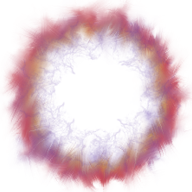
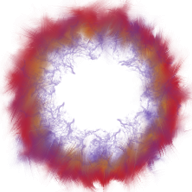
shield increases opacity when charging

diff --git a/Levels/level00.js b/Levels/level00.js
@@ -11,11 +11,11 @@ levels[0].background =
 [
     new Box({x:_VCENTER.x, y:res.h, w:res.w, h:128, o:{x:-0.5,y:-1}}, "maroon"),
     new SwordProp({x:_VCENTER.x, y:_VCENTER.y+208, w:16, h:128, o:{x:-0.5,y:-1}}),
-    new Img({x:_VCENTER.x, y:_VCENTER.y+284, w:64, h:128, o:{x:-0.5,y:-1}}, _PEDESTALIMG, _BLOCKALL),
-    new Img({x:_VCENTER.x, y:res.h-256, w:64, h:128, o:{x:-0.5,y:0}}, _PEDESTALIMG, _BLOCKALL),
     new Img({x:_VCENTER.x-128, y:_VCENTER.y+256, w:128, h:32, o:{x:-0.5,y:-0.5}}, _PLATFORMIMG, _PLATFORML),
     new Img({x:_VCENTER.x, y:_VCENTER.y+252, w:128, h:24, o:{x:-0.5,y:-0.5}}, _PLATFORMIMG, _PLATFORM),
     new Img({x:_VCENTER.x+128, y:_VCENTER.y+256, w:128, h:32, o:{x:-0.5,y:-0.5}}, _PLATFORMIMG, _PLATFORMR),
+    new Img({x:_VCENTER.x, y:_VCENTER.y+284, w:64, h:128, o:{x:-0.5,y:-1}}, _PEDESTALIMG, _BLOCKALL),
+    new Img({x:_VCENTER.x, y:res.h-256, w:64, h:128, o:{x:-0.5,y:0}}, _PEDESTALIMG, _BLOCKALL, -1),
     new Word({x:256, y:res.h-256, h:32, o:{x:-0.5,y:-0.5}}, ["MOVE WITH A & D"], "white"),
     new Word({x:608, y:res.h-512, h:32, o:{x:-0.5,y:-0.5}}, ["JUMP WITH K","YOU CAN DOUBLE JUMP"], "white"),
     new Word({x:res.w-608, y:res.h-504, h:32, o:{x:-0.5,y:-0.5}}, ["DASH WITH LSHIFT"], "white"),

diff --git a/Assets/Characters/Player/sword.js b/Assets/Characters/Player/sword.js
@@ -252,6 +252,8 @@ class Sword extends Dynamic
             this.lastStabCharge = this.stabCharge;
             this.chargeConcentration = Math.floor(this.stabCharge/(this.maxStabCharge/this.chargeAni.length));
             if (this.chargeConcentration < 1) this.chargeConcentration = 1;
+
+            this.player.shieldAni.alpha = 0.5+this.stabCharge/this.maxStabCharge*0.5;
         }
 
         this.r = -this.player.frozenDirection * 80;

diff --git a/Assets/Characters/Player/player.js b/Assets/Characters/Player/player.js
@@ -35,6 +35,7 @@ class Player extends Physics
             h: this.radius*2,
             o: {x:-0.5,y:-0.5}
         }, frames, _NOCOLLISION);
+        this.shieldAni.alpha = 0.5;
         
         // Movements
         this.direction = 0;
